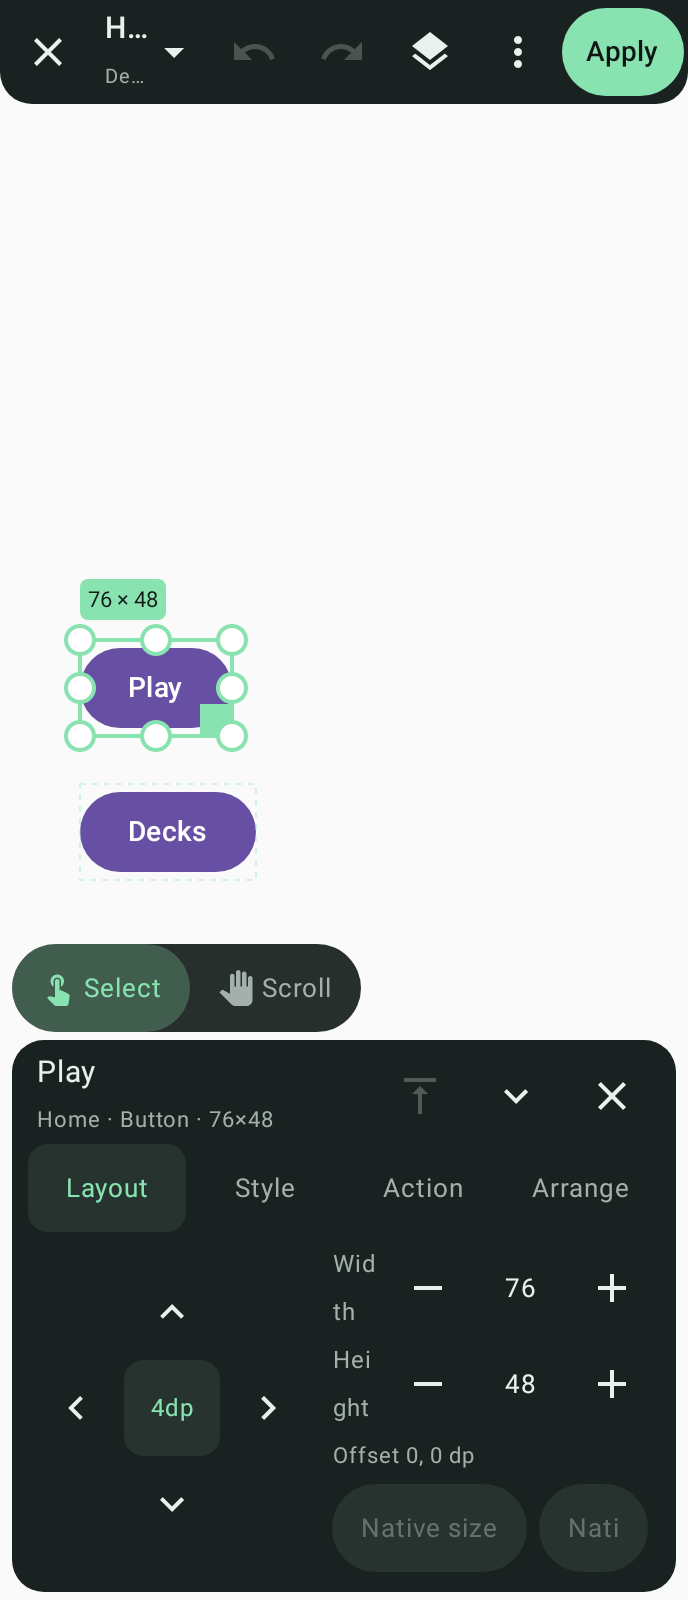
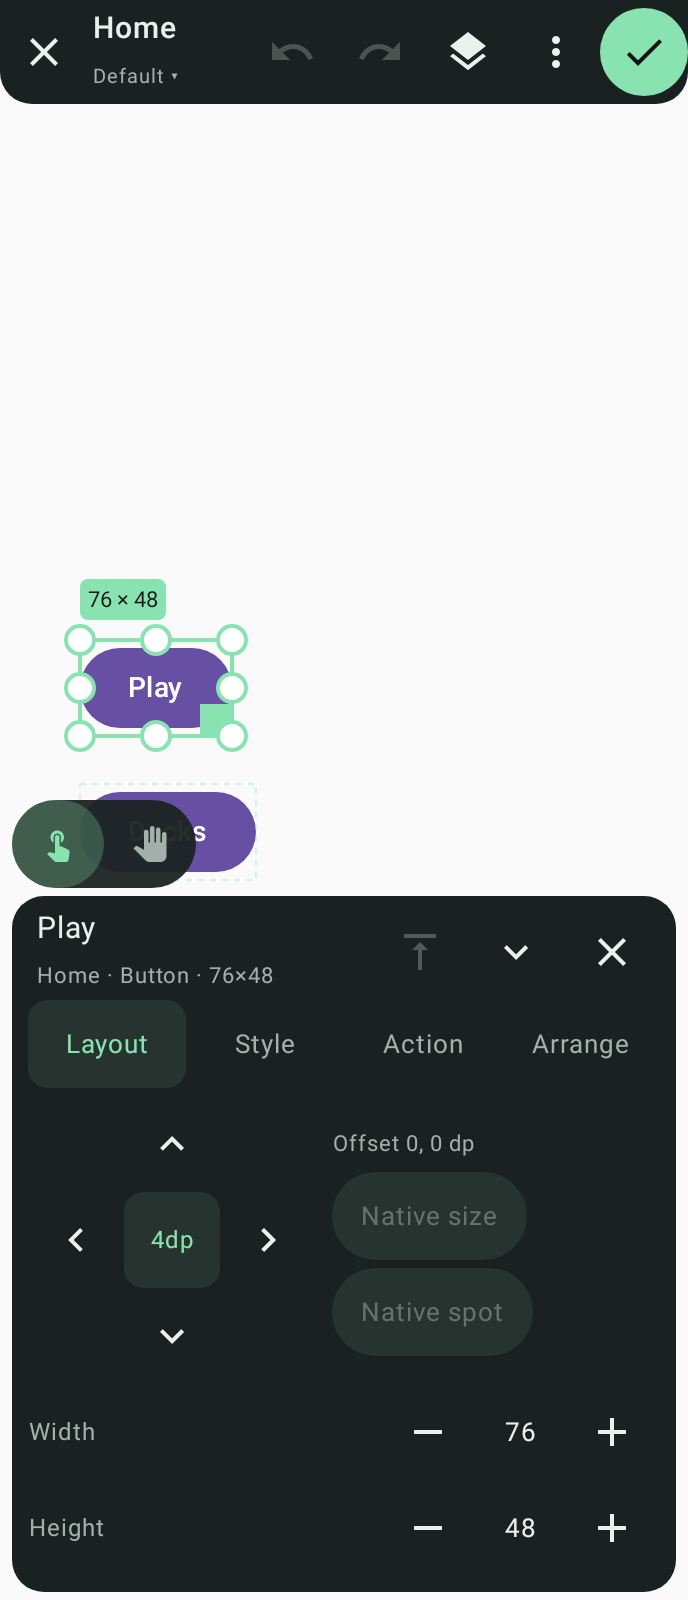
Studio editor: Fold cover toolbar and layout tab fit without truncation
Claude-Session: https://claude.ai/code/session_01KSRNRURNjpFk81NDutZU6s

diff --git a/android/app/src/main/java/com/arcanatable/StudioInspector.kt b/android/app/src/main/java/com/arcanatable/StudioInspector.kt
@@ -102,8 +102,8 @@ private fun StudioParentButton(runtime:StudioControlsRuntime,control:StudioLiveC
 @Composable
 private fun LayoutTab(style:StudioControlStyle,widthDp:Float,heightDp:Float,change:((StudioControlStyle)->StudioControlStyle)->Unit) {
     var step by remember{mutableFloatStateOf(4f)}
-    Row(verticalAlignment=Alignment.CenterVertically) {
-        // Directional pad: one tap moves by the chosen step; the step chip toggles fine/coarse.
+    val pad=@Composable {
+        // Directional pad: one tap moves by the chosen step; the centre chip cycles 4 → 16 → 1 dp.
         Column(horizontalAlignment=Alignment.CenterHorizontally) {
             StudioPadButton(Icons.Default.KeyboardArrowUp,"Move up","studio-nudge-up"){change{StudioEditorGeometry.nudge(it,0f,-step)}}
             Row {
@@ -114,15 +114,24 @@ private fun LayoutTab(style:StudioControlStyle,widthDp:Float,heightDp:Float,chan
             }
             StudioPadButton(Icons.Default.KeyboardArrowDown,"Move down","studio-nudge-down"){change{StudioEditorGeometry.nudge(it,0f,step)}}
         }
-        Spacer(Modifier.width(8.dp))
-        Column(Modifier.weight(1f)) {
-            StudioStepper("Width","${(style.width ?: widthDp).toInt()}","studio-width",{change{StudioEditorGeometry.resize(it,widthDp,heightDp,-step,0f)}},{change{StudioEditorGeometry.resize(it,widthDp,heightDp,step,0f)}})
-            StudioStepper("Height","${(style.height ?: heightDp).toInt()}","studio-height",{change{StudioEditorGeometry.resize(it,widthDp,heightDp,0f,-step)}},{change{StudioEditorGeometry.resize(it,widthDp,heightDp,0f,step)}})
-            Text("Offset ${style.dx.toInt()}, ${style.dy.toInt()} dp",color=darkTableColors.muted,fontSize=11.sp)
-            Row {
-                StudioChip("Native size",style.width!=null || style.height!=null,"studio-native-size"){change{it.copy(width=null,height=null)}}
-                StudioChip("Native spot",style.dx!=0f || style.dy!=0f,"studio-native-position"){change{it.copy(dx=0f,dy=0f)}}
-            }
+    }
+    val sizes=@Composable {
+        StudioStepper("Width","${(style.width ?: widthDp).toInt()}","studio-width",{change{StudioEditorGeometry.resize(it,widthDp,heightDp,-step,0f)}},{change{StudioEditorGeometry.resize(it,widthDp,heightDp,step,0f)}})
+        StudioStepper("Height","${(style.height ?: heightDp).toInt()}","studio-height",{change{StudioEditorGeometry.resize(it,widthDp,heightDp,0f,-step)}},{change{StudioEditorGeometry.resize(it,widthDp,heightDp,0f,step)}})
+    }
+    val resets=@Composable {
+        Text("Offset ${style.dx.toInt()}, ${style.dy.toInt()} dp",color=darkTableColors.muted,fontSize=11.sp)
+        StudioChip("Native size",style.width!=null || style.height!=null,"studio-native-size"){change{it.copy(width=null,height=null)}}
+        StudioChip("Native spot",style.dx!=0f || style.dy!=0f,"studio-native-position"){change{it.copy(dx=0f,dy=0f)}}
+    }
+    BoxWithConstraints {
+        if(maxWidth<400.dp) Column {
+            // Narrow (Fold cover): pad and resets side by side, size steppers full width underneath.
+            Row(verticalAlignment=Alignment.CenterVertically){pad();Spacer(Modifier.width(8.dp));Column{resets()}}
+            sizes()
+        } else Row(verticalAlignment=Alignment.CenterVertically) {
+            pad();Spacer(Modifier.width(8.dp))
+            Column(Modifier.weight(1f)){sizes();Row(verticalAlignment=Alignment.CenterVertically){resets()}}
         }
     }
 }
@@ -197,7 +206,7 @@ internal fun StudioPadButton(icon:androidx.compose.ui.graphics.vector.ImageVecto
 @Composable
 internal fun StudioStepper(label:String,value:String,tag:String,onMinus:()->Unit,onPlus:()->Unit) {
     Row(verticalAlignment=Alignment.CenterVertically,modifier=Modifier.fillMaxWidth()) {
-        Text(label,color=darkTableColors.muted,fontSize=12.sp,modifier=Modifier.weight(1f))
+        Text(label,color=darkTableColors.muted,fontSize=12.sp,maxLines=1,overflow=TextOverflow.Ellipsis,modifier=Modifier.weight(1f))
         IconButton(onClick=onMinus,modifier=Modifier.size(48.dp).testTag("$tag-minus")){Icon(Icons.Default.Remove,"Decrease $label",tint=darkTableColors.text)}
         Text(value,color=darkTableColors.text,fontSize=13.sp,modifier=Modifier.widthIn(min=44.dp).testTag("$tag-value"),textAlign=androidx.compose.ui.text.style.TextAlign.Center)
         IconButton(onClick=onPlus,modifier=Modifier.size(48.dp).testTag("$tag-plus")){Icon(Icons.Default.Add,"Increase $label",tint=darkTableColors.text)}

diff --git a/android/app/src/main/java/com/arcanatable/StudioEditorPanels.kt b/android/app/src/main/java/com/arcanatable/StudioEditorPanels.kt
@@ -31,22 +31,26 @@ import androidx.compose.ui.unit.sp
 @Composable
 internal fun StudioTopBar(runtime:StudioControlsRuntime,screen:String,onClose:()->Unit,onScreens:()->Unit,onLayers:()->Unit,
     layersOpen:Boolean,onMore:()->Unit,onApply:()->Unit) {
+    // Fold cover (~344dp): Apply becomes a 44dp check so the screen name keeps room to be read.
+    val narrow=androidx.compose.ui.platform.LocalConfiguration.current.screenWidthDp<380
     Surface(color=darkTableColors.panel,shape=RoundedCornerShape(bottomStart=16.dp,bottomEnd=16.dp),shadowElevation=6.dp,modifier=Modifier.fillMaxWidth().testTag("studio-top-bar")) {
-        Row(Modifier.fillMaxWidth().height(52.dp).padding(horizontal=2.dp),verticalAlignment=Alignment.CenterVertically) {
+        Row(Modifier.fillMaxWidth().height(52.dp).padding(horizontal=if(narrow)0.dp else 2.dp),verticalAlignment=Alignment.CenterVertically) {
             StudioBarIcon(Icons.Default.Close,"Close Studio","studio-close",onClick=onClose)
-            Row(Modifier.weight(1f).heightIn(min=44.dp).clip(RoundedCornerShape(12.dp)).clickable(onClick=onScreens).padding(horizontal=6.dp).testTag("studio-screen-picker"),
+            Row(Modifier.weight(1f).heightIn(min=44.dp).clip(RoundedCornerShape(12.dp)).clickable(onClickLabel="Choose screen",onClick=onScreens).padding(horizontal=if(narrow)2.dp else 6.dp).testTag("studio-screen-picker"),
                 verticalAlignment=Alignment.CenterVertically) {
                 Column(Modifier.weight(1f,fill=false)) {
                     Text(screen,color=darkTableColors.text,fontWeight=FontWeight.SemiBold,maxLines=1,overflow=TextOverflow.Ellipsis,fontSize=15.sp)
-                    Text(runtime.profile,color=darkTableColors.muted,fontSize=10.sp,maxLines=1,overflow=TextOverflow.Ellipsis)
+                    Text(if(narrow)"${runtime.profile} ▾" else runtime.profile,color=darkTableColors.muted,fontSize=10.sp,maxLines=1,overflow=TextOverflow.Ellipsis)
                 }
-                Icon(Icons.Default.ArrowDropDown,"Choose screen",tint=darkTableColors.text)
+                if(!narrow)Icon(Icons.Default.ArrowDropDown,"Choose screen",tint=darkTableColors.text)
             }
             StudioBarIcon(Icons.AutoMirrored.Filled.Undo,"Undo","studio-undo",enabled=runtime.canUndo){runtime.undo()}
             StudioBarIcon(Icons.AutoMirrored.Filled.Redo,"Redo","studio-redo",enabled=runtime.canRedo){runtime.redo()}
             StudioBarIcon(Icons.Default.Layers,"Layers","studio-layers",active=layersOpen,onClick=onLayers)
             StudioBarIcon(Icons.Default.MoreVert,"More options","studio-more",onClick=onMore)
-            Button(onClick=onApply,contentPadding=PaddingValues(horizontal=12.dp),modifier=Modifier.heightIn(min=44.dp).testTag("studio-apply"),
+            if(narrow)FilledIconButton(onClick=onApply,modifier=Modifier.size(44.dp).testTag("studio-apply"),
+                colors=IconButtonDefaults.filledIconButtonColors(containerColor=darkTableColors.accent,contentColor=darkTableColors.background)) {Icon(Icons.Default.Check,"Apply")}
+            else Button(onClick=onApply,contentPadding=PaddingValues(horizontal=12.dp),modifier=Modifier.heightIn(min=44.dp).testTag("studio-apply"),
                 colors=ButtonDefaults.buttonColors(containerColor=darkTableColors.accent,contentColor=darkTableColors.background)) {Text("Apply",fontWeight=FontWeight.SemiBold)}
         }
     }

diff --git a/android/app/src/main/java/com/arcanatable/StudioEditorShell.kt b/android/app/src/main/java/com/arcanatable/StudioEditorShell.kt
@@ -140,13 +140,14 @@ internal fun studioCurrentScreen(runtime:StudioControlsRuntime,window:Int,select
 
 @Composable
 private fun StudioToolSwitch(tool:StudioEditorTool,onTool:(StudioEditorTool)->Unit) {
+    val narrow=androidx.compose.ui.platform.LocalConfiguration.current.screenWidthDp<380
     Row(Modifier.padding(bottom=4.dp).clip(RoundedCornerShape(22.dp)).background(darkTableColors.panel.copy(alpha=0.94f))) {
         listOf(StudioEditorTool.Select to Icons.Default.TouchApp,StudioEditorTool.Scroll to Icons.Default.PanTool).forEach {(t,icon)->
             val on=t==tool
             Row(Modifier.heightIn(min=44.dp).clip(RoundedCornerShape(22.dp)).background(if(on)darkTableColors.accent.copy(alpha=0.25f) else Color.Transparent)
                 .clickable{onTool(t)}.padding(horizontal=14.dp).testTag("studio-tool-${t.name}"),verticalAlignment=Alignment.CenterVertically) {
-                Icon(icon,null,tint=if(on)darkTableColors.accent else darkTableColors.muted,modifier=Modifier.size(18.dp))
-                Text(" ${t.name}",color=if(on)darkTableColors.accent else darkTableColors.muted,fontSize=13.sp)
+                Icon(icon,if(narrow)"${t.name} mode" else null,tint=if(on)darkTableColors.accent else darkTableColors.muted,modifier=Modifier.size(18.dp))
+                if(!narrow)Text(" ${t.name}",color=if(on)darkTableColors.accent else darkTableColors.muted,fontSize=13.sp)
             }
         }
     }
